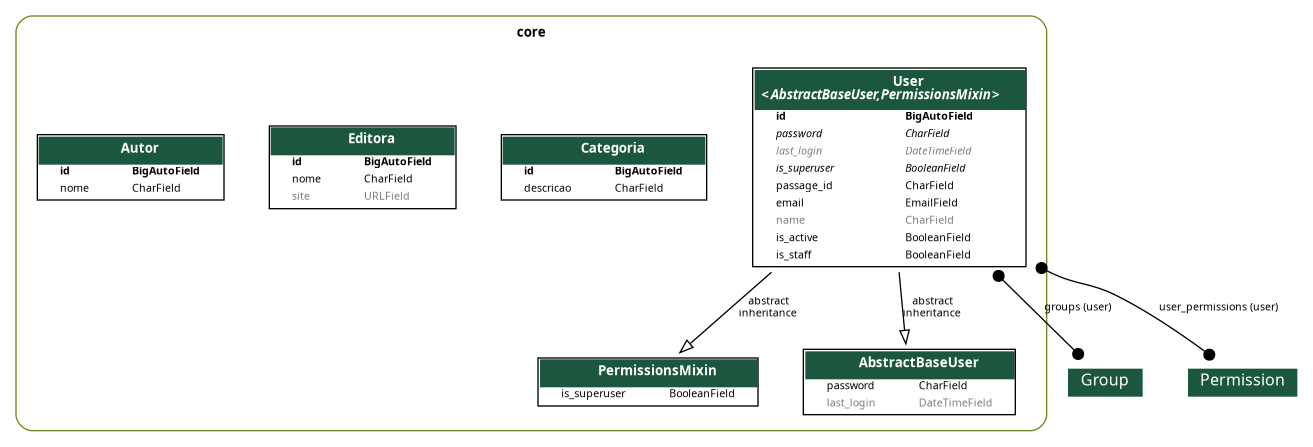
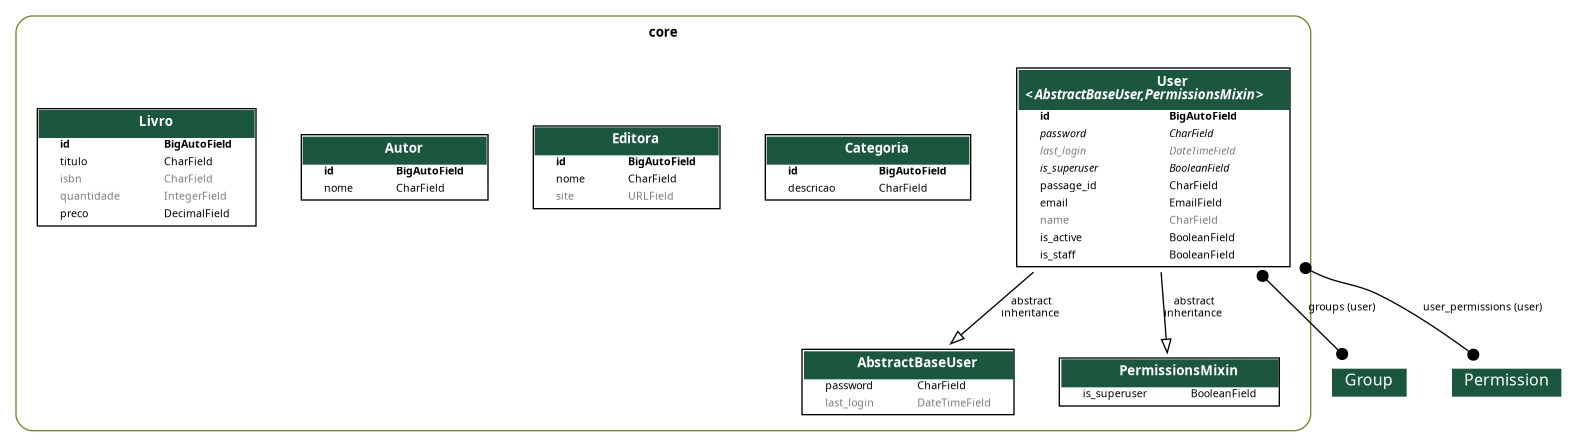
feat: criação da entidade para Livro

diff --git a/core/migrations/0008_livro.py b/core/migrations/0008_livro.py
@@ -1,0 +1,23 @@
+# Generated by Django 5.1.7 on 2026-03-19 13:57
+
+from django.db import migrations, models
+
+
+class Migration(migrations.Migration):
+
+    dependencies = [
+        ('core', '0007_autor'),
+    ]
+
+    operations = [
+        migrations.CreateModel(
+            name='Livro',
+            fields=[
+                ('id', models.BigAutoField(auto_created=True, primary_key=True, serialize=False, verbose_name='ID')),
+                ('titulo', models.CharField(max_length=255)),
+                ('isbn', models.CharField(blank=True, max_length=32, null=True)),
+                ('quantidade', models.IntegerField(blank=True, default=0, null=True)),
+                ('preco', models.DecimalField(decimal_places=2, default=0, max_digits=7)),
+            ],
+        ),
+    ]

diff --git a/app/urls.py b/app/urls.py
@@ -7,9 +7,10 @@ from drf_spectacular.views import (
 )
 from rest_framework.routers import DefaultRouter
 
-from core.views import AutorViewSet, CategoriaViewSet, EditoraViewSet, UserViewSet
+from core.views import AutorViewSet, CategoriaViewSet, EditoraViewSet, LivroViewSet, UserViewSet
 
 router = DefaultRouter()
+router.register(r'livro', LivroViewSet, basename='livro')
 router.register(r'categoria', CategoriaViewSet, basename='categoria')
 router.register(r'editora', EditoraViewSet, basename='editora')
 router.register(r'usuarios', UserViewSet, basename='usuarios')

diff --git a/core/models/livro.py b/core/models/livro.py
@@ -1,0 +1,11 @@
+from django.db import models
+
+
+class Livro(models.Model):
+    titulo = models.CharField(max_length=255)
+    isbn = models.CharField(max_length=32, null=True, blank=True)
+    quantidade = models.IntegerField(default=0,  null=True, blank=True)
+    preco = models.DecimalField(max_digits=7, decimal_places=2, default=0)
+
+    def __str__(self):
+        return f'({self.id}) {self.titulo} ({self.quantidade})'

diff --git a/core/views/livro.py b/core/views/livro.py
@@ -1,0 +1,9 @@
+from rest_framework.viewsets import ModelViewSet
+
+from core.models import Livro
+from core.serializers import LivroSerializer
+
+
+class LivroViewSet(ModelViewSet):
+    queryset = Livro.objects.all()
+    serializer_class = LivroSerializer

diff --git a/core/serializers/livro.py b/core/serializers/livro.py
@@ -1,0 +1,9 @@
+from rest_framework.serializers import ModelSerializer
+
+from core.models import Livro
+
+
+class LivroSerializer(ModelSerializer):
+    class Meta:
+        model = Livro
+        fields = "__all__"

diff --git a/core/admin.py b/core/admin.py
@@ -55,3 +55,4 @@ admin.site.register(models.User, UserAdmin)
 admin.site.register(models.Categoria)
 admin.site.register(models.Editora)
 admin.site.register(models.Autor)
+admin.site.register(models.Livro)

diff --git a/core/serializers/__init__.py b/core/serializers/__init__.py
@@ -2,3 +2,4 @@ from .user import UserSerializer
 from .categoria import CategoriaSerializer
 from .editora import EditoraSerializer
 from .autor import AutorSerializer
+from .livro import LivroSerializer

diff --git a/core/views/__init__.py b/core/views/__init__.py
@@ -2,3 +2,4 @@ from .user import UserViewSet
 from .categoria import CategoriaViewSet
 from .editora import EditoraViewSet
 from .autor import AutorViewSet
+from .livro import LivroViewSet

diff --git a/core/models/__init__.py b/core/models/__init__.py
@@ -2,3 +2,4 @@ from .user import User
 from .categoria import Categoria
 from .editora import Editora
 from .autor import Autor
+from .livro import Livro
